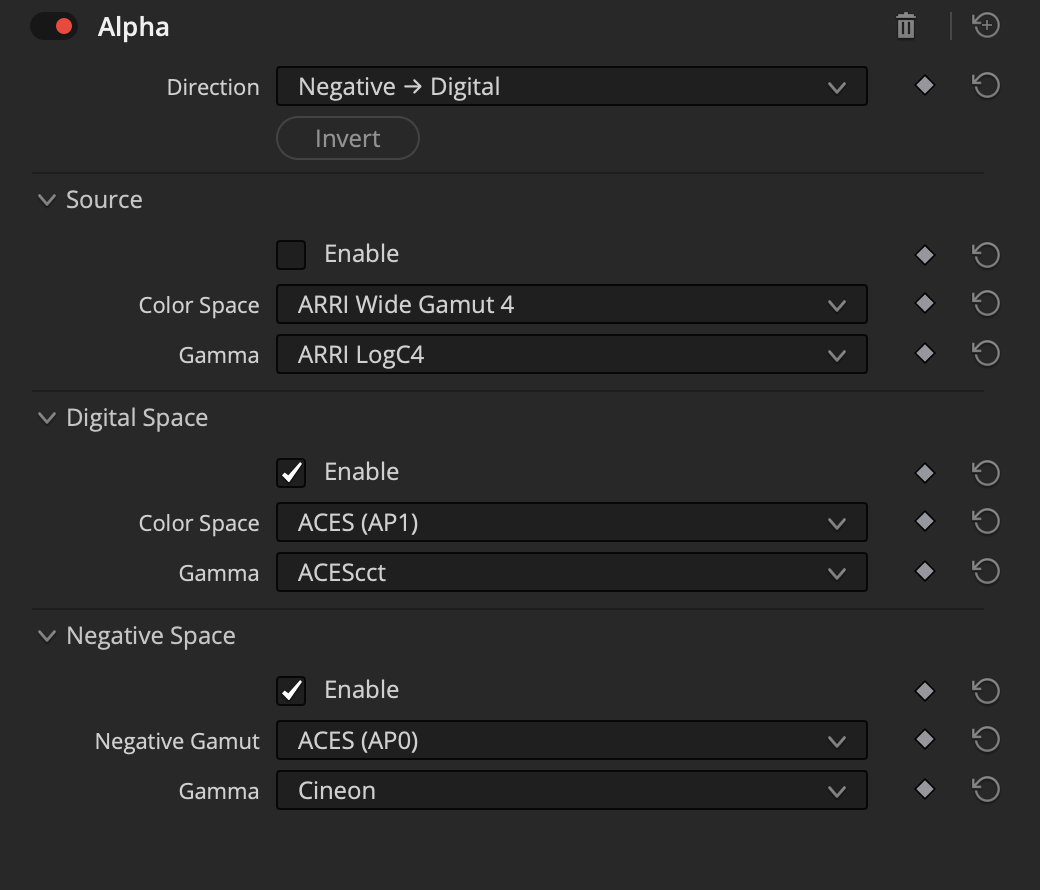
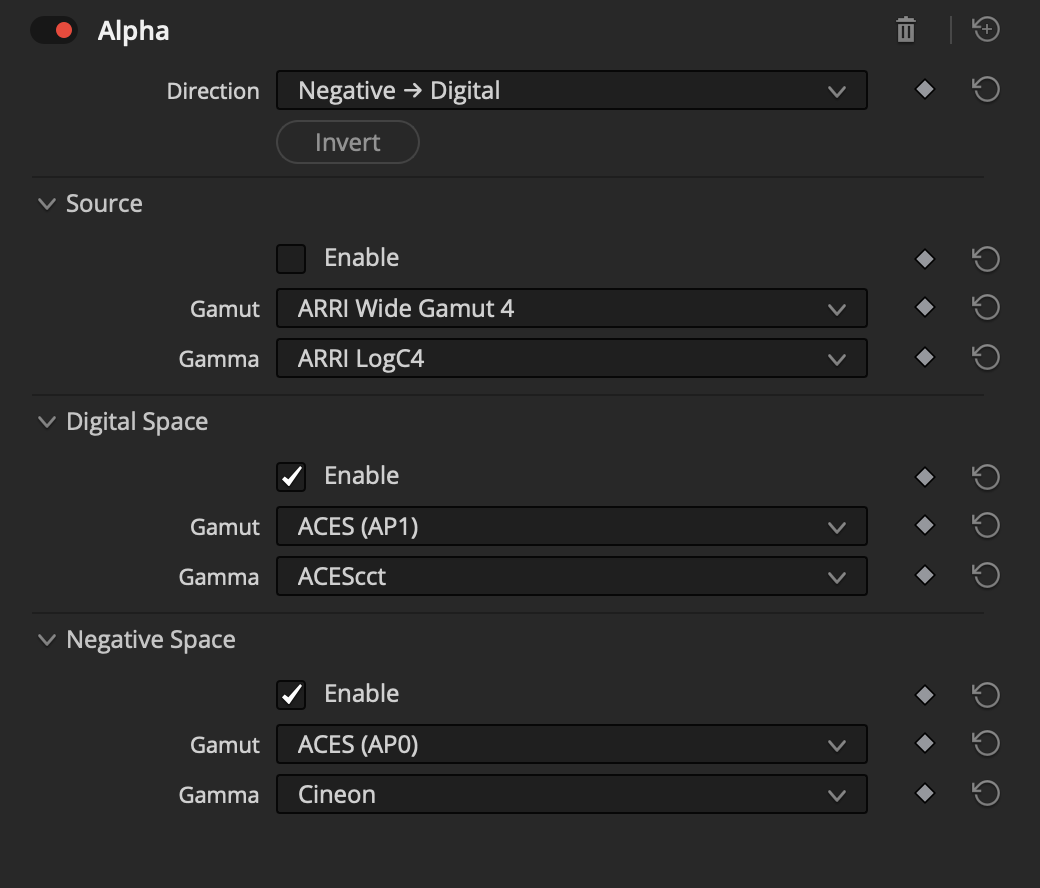
Update Alpha UI screenshots with new Gamut/Gamma labels

diff --git a/aletheia.html b/aletheia.html
@@ -2543,11 +2543,11 @@
                         </div>
                         <div class="interface-preview alpha-interface-stacked">
                             <div class="alpha-interface-item">
-                                <img src="images/Alpha UI-Interface D to N.png?v=2" alt="Alpha Interface - Digital to Negative">
+                                <img src="images/Alpha UI-Interface D to N.png?v=3" alt="Alpha Interface - Digital to Negative">
                                 <span class="alpha-interface-label">Digital → Negative</span>
                             </div>
                             <div class="alpha-interface-item">
-                                <img src="images/Alpha UI-Interface N to D.png?v=2" alt="Alpha Interface - Negative to Digital">
+                                <img src="images/Alpha UI-Interface N to D.png?v=3" alt="Alpha Interface - Negative to Digital">
                                 <span class="alpha-interface-label">Negative → Digital</span>
                             </div>
                         </div>
